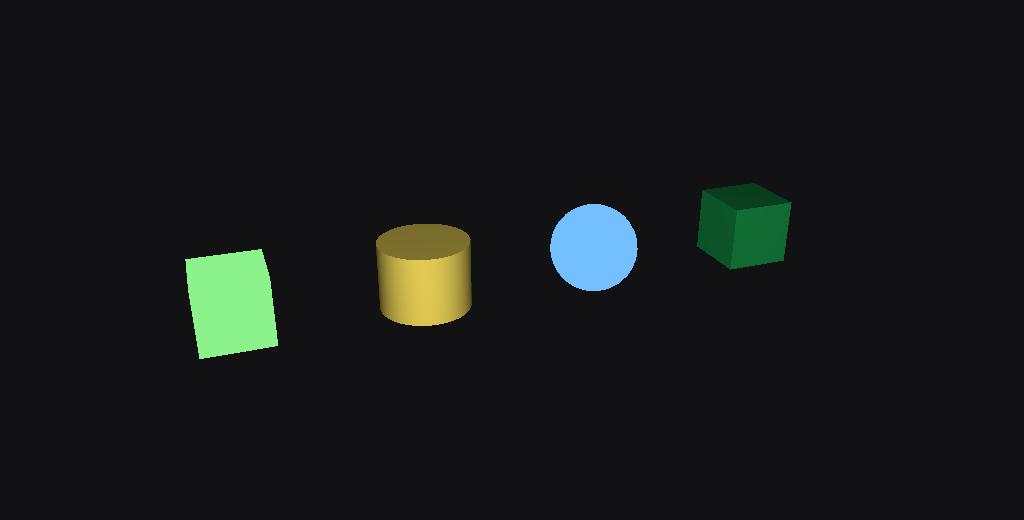
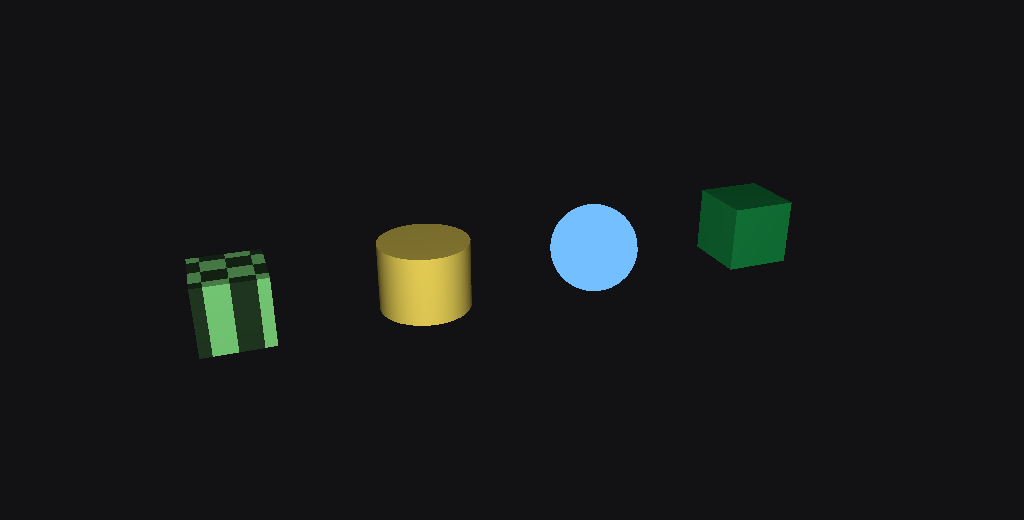
heapScene: per-group texture sets (texture-set keying)
WebGPU 1.0 has no bindless, so a sampled texture forces a distinct
bind-group layout — texture-set is a wedge in the group key.

  HeapTextureSet { texture, textureView?, sampler }
  BuildHeapSceneOptions.texturesByGroupKey?: Map<groupKey, HeapTextureSet>

A group with a texture set adds two entries to its bind-group
layout: a float texture_2d at @binding(4) and a filtering sampler
at @binding(5). The user's FS WGSL declares both. Groups WITHOUT a
texture set keep the 4-binding layout from before.

Demo gains a 'textured' group with a 64x64 RGBA8 checker texture
sampled via planar XY world-space projection (no UVs in the heap
yet — projection works because all our geometry has well-defined
world axes). Slot 3 of the 4-RO classic now uses 'textured' →
3 distinct groups. Stats:

  4 draws / 3 grp · 57 fps · globals: 240 B (= 80 B × 3 groups)

Scale check with the textured group active:
  1000 draws / 3 grp · 60 fps · encode 0.2 / 0.3 ms p50/p99
  10000 draws / 3 grp · 60 fps · encode 0.4 / 0.5 ms

Cost of a 3rd group is +80 B/frame globals + one extra setBindGroup
+ one extra setIndexBuffer per frame. Encode time is unchanged.

Per-RO textures (different texture per RO within a group) is the
follow-up; today the user must encode that as a per-draw groupKey
('textured-rock', 'textured-grass') so each unique texture set
becomes its own group. Bindless / sized-binding-arrays is the
escape hatch when WebGPU lands either feature.

Changed region(s): [[0.1562, 0.4615, 0.2812, 0.7077]]

diff --git a/packages/rendering/src/runtime/heapScene.ts b/packages/rendering/src/runtime/heapScene.ts
@@ -34,6 +34,13 @@
 //   };
 //
 // User WGSL must declare `@fragment fn fs(in: VsOut) -> @location(0) vec4<f32>`.
+//
+// Per-group texture sets. WebGPU 1.0 has no bindless, so texture-set
+// is a wedge in the group key: groups with different texture sets
+// can't share a bind group. Pass a `textures: { texture, sampler }`
+// per groupKey via `BuildHeapSceneOptions.texturesByGroupKey`. The
+// package adds the texture (binding 4) + sampler (binding 5) to that
+// group's bind-group layout; the user's FS WGSL declares them.
 
 import { Trafo3d, V3d, V4f, type M44d } from "@aardworx/wombat.base";
 import { AVal, addMarkingCallback } from "@aardworx/wombat.adaptive";
@@ -227,6 +234,7 @@ function buildGroup(
   attach: CanvasAttachment,
   key: string,
   fragmentWgsl: string,
+  textureSet: HeapTextureSet | undefined,
   draws: readonly { spec: HeapDrawSpec; sourceIndex: number }[],
   modelTrafos: aval<Trafo3d>[],
   colors: aval<V4f>[],
@@ -279,14 +287,21 @@ function buildGroup(
     code: SHADER_PRELUDE + fragmentWgsl,
     label: `heapScene/${key}/shader`,
   });
+  const bindLayoutEntries: GPUBindGroupLayoutEntry[] = [
+    { binding: 0, visibility: GPUShaderStage.VERTEX, buffer: { type: "uniform" } },
+    { binding: 1, visibility: GPUShaderStage.VERTEX, buffer: { type: "read-only-storage" } },
+    { binding: 2, visibility: GPUShaderStage.VERTEX, buffer: { type: "read-only-storage" } },
+    { binding: 3, visibility: GPUShaderStage.VERTEX, buffer: { type: "read-only-storage" } },
+  ];
+  if (textureSet !== undefined) {
+    bindLayoutEntries.push(
+      { binding: 4, visibility: GPUShaderStage.FRAGMENT, texture: { sampleType: "float" } },
+      { binding: 5, visibility: GPUShaderStage.FRAGMENT, sampler: { type: "filtering" } },
+    );
+  }
   const bindGroupLayout = device.createBindGroupLayout({
     label: `heapScene/${key}/bgl`,
-    entries: [
-      { binding: 0, visibility: GPUShaderStage.VERTEX, buffer: { type: "uniform" } },
-      { binding: 1, visibility: GPUShaderStage.VERTEX, buffer: { type: "read-only-storage" } },
-      { binding: 2, visibility: GPUShaderStage.VERTEX, buffer: { type: "read-only-storage" } },
-      { binding: 3, visibility: GPUShaderStage.VERTEX, buffer: { type: "read-only-storage" } },
-    ],
+    entries: bindLayoutEntries,
   });
   const pipelineLayout = device.createPipelineLayout({ bindGroupLayouts: [bindGroupLayout] });
   const pipeline = device.createRenderPipeline({
@@ -299,15 +314,22 @@ function buildGroup(
       ? { depthStencil: { format: depthFormat, depthWriteEnabled: true, depthCompare: "less" as GPUCompareFunction } }
       : {}),
   });
+  const bindEntries: GPUBindGroupEntry[] = [
+    { binding: 0, resource: { buffer: globals } },
+    { binding: 1, resource: { buffer: drawHeap } },
+    { binding: 2, resource: { buffer: packed.positionsBuf } },
+    { binding: 3, resource: { buffer: packed.normalsBuf } },
+  ];
+  if (textureSet !== undefined) {
+    bindEntries.push(
+      { binding: 4, resource: textureSet.textureView ?? textureSet.texture.createView() },
+      { binding: 5, resource: textureSet.sampler },
+    );
+  }
   const bindGroup = device.createBindGroup({
     label: `heapScene/${key}/bg`,
     layout: bindGroupLayout,
-    entries: [
-      { binding: 0, resource: { buffer: globals } },
-      { binding: 1, resource: { buffer: drawHeap } },
-      { binding: 2, resource: { buffer: packed.positionsBuf } },
-      { binding: 3, resource: { buffer: packed.normalsBuf } },
-    ],
+    entries: bindEntries,
   });
 
   return {
@@ -343,9 +365,26 @@ export interface HeapScene {
   dispose(): void;
 }
 
+/**
+ * Per-group texture set. Bindless isn't standard WebGPU, so a group
+ * with sampled textures gets a distinct bind-group layout and is
+ * keyed separately from groups with no textures or different sets.
+ */
+export interface HeapTextureSet {
+  readonly texture: GPUTexture;
+  readonly textureView?: GPUTextureView;
+  readonly sampler: GPUSampler;
+}
+
 export interface BuildHeapSceneOptions {
   /** WGSL fragment-stage source per group key — must declare `fs(in: VsOut) -> @location(0) vec4<f32>`. */
   readonly fragmentShaders: ReadonlyMap<string, string>;
+  /**
+   * Per-group texture set. When present, the group's bind-group
+   * layout adds a `texture_2d<f32>` at binding 4 and a sampler at
+   * binding 5. The user's FS WGSL must declare them.
+   */
+  readonly texturesByGroupKey?: ReadonlyMap<string, HeapTextureSet>;
 }
 
 /**
@@ -380,7 +419,8 @@ export function buildHeapScene(
     if (fs === undefined) {
       throw new Error(`buildHeapScene: no fragment shader supplied for groupKey '${key}'`);
     }
-    groups.push(buildGroup(device, attach, key, fs, members, modelTrafos, colors));
+    const textureSet = opts.texturesByGroupKey?.get(key);
+    groups.push(buildGroup(device, attach, key, fs, textureSet, members, modelTrafos, colors));
   }
 
   const stats: HeapSceneStats = {

diff --git a/examples/heap-demo/src/heap.ts b/examples/heap-demo/src/heap.ts
@@ -1,22 +1,24 @@
 // heap.ts — thin demo wrapper around the package's heapScene API.
 // All the architecture lives in
 // `@aardworx/wombat.rendering.experimental/runtime` now; the demo
-// just supplies its two fragment shaders ("lambert" / "flat") and
-// adapts its local GeometryData type to the package's HeapGeometry
-// shape.
+// supplies its three fragment shaders ("lambert" / "flat" /
+// "textured"), adapts the local GeometryData to HeapGeometry, and
+// builds a small synthetic checker texture for the "textured"
+// group.
 
 import {
   buildHeapScene,
   type HeapDrawSpec as PkgHeapDrawSpec,
   type HeapGeometry,
   type HeapScene,
+  type HeapTextureSet,
 } from "@aardworx/wombat.rendering.experimental/runtime";
 import type { CanvasAttachment } from "@aardworx/wombat.rendering.experimental/window";
 import type { aval } from "@aardworx/wombat.adaptive";
 import { Trafo3d, V4f } from "@aardworx/wombat.base";
 import type { GeometryData } from "./geometry.js";
 
-export type ShaderKind = "lambert" | "flat";
+export type ShaderKind = "lambert" | "flat" | "textured";
 
 const FS_LAMBERT = /* wgsl */`
 @fragment
@@ -37,6 +39,24 @@ fn fs(in: VsOut) -> @location(0) vec4<f32> {
 }
 `;
 
+// Texture sample uses planar projection on the world-space normal —
+// crude but enough to read pixels off the texture and prove the
+// per-group bind-layout extension works without UVs in the heap.
+const FS_TEXTURED = /* wgsl */`
+@group(0) @binding(4) var checker:    texture_2d<f32>;
+@group(0) @binding(5) var checkerSmp: sampler;
+
+@fragment
+fn fs(in: VsOut) -> @location(0) vec4<f32> {
+  let n = normalize(in.normal);
+  let uv = vec2<f32>(in.worldPos.x, in.worldPos.y) * 0.25 + vec2<f32>(0.5, 0.5);
+  let tex = textureSample(checker, checkerSmp, uv).rgb;
+  let l = normalize(in.lightLoc - in.worldPos);
+  let k = 0.3 + 0.7 * abs(dot(l, n));
+  return vec4<f32>(tex * in.color.xyz * k, in.color.w);
+}
+`;
+
 export interface HeapDrawSpec {
   readonly geo: GeometryData;
   readonly modelTrafo: aval<Trafo3d> | Trafo3d;
@@ -46,11 +66,47 @@ export interface HeapDrawSpec {
 
 export type HeapRenderer = HeapScene;
 
+/** Build a small RGBA8 checkerboard texture for the "textured" group. */
+function buildCheckerTexture(device: GPUDevice): HeapTextureSet {
+  const size = 64;
+  const bytes = new Uint8Array(size * size * 4);
+  for (let y = 0; y < size; y++) {
+    for (let x = 0; x < size; x++) {
+      const cell = ((x >> 3) ^ (y >> 3)) & 1;
+      const v = cell !== 0 ? 220 : 60;
+      const idx = (y * size + x) * 4;
+      bytes[idx + 0] = v;
+      bytes[idx + 1] = v;
+      bytes[idx + 2] = v;
+      bytes[idx + 3] = 255;
+    }
+  }
+  const texture = device.createTexture({
+    size: { width: size, height: size, depthOrArrayLayers: 1 },
+    format: "rgba8unorm",
+    usage: GPUTextureUsage.TEXTURE_BINDING | GPUTextureUsage.COPY_DST,
+    label: "heap-demo: checker",
+  });
+  device.queue.writeTexture(
+    { texture },
+    bytes,
+    { bytesPerRow: size * 4, rowsPerImage: size },
+    { width: size, height: size, depthOrArrayLayers: 1 },
+  );
+  const sampler = device.createSampler({
+    magFilter: "nearest", minFilter: "nearest",
+    addressModeU: "repeat", addressModeV: "repeat",
+    label: "heap-demo: checker sampler",
+  });
+  return { texture, sampler };
+}
+
 export function buildHeapRenderer(
   device: GPUDevice,
   attach: CanvasAttachment,
   draws: readonly HeapDrawSpec[],
 ): HeapRenderer {
+  const checker = buildCheckerTexture(device);
   const pkgDraws: PkgHeapDrawSpec[] = draws.map(d => ({
     geo: { positions: d.geo.positions, normals: d.geo.normals, indices: d.geo.indices } satisfies HeapGeometry,
     modelTrafo: d.modelTrafo,
@@ -59,8 +115,12 @@ export function buildHeapRenderer(
   }));
   return buildHeapScene(device, attach, pkgDraws, {
     fragmentShaders: new Map<string, string>([
-      ["lambert", FS_LAMBERT],
-      ["flat",    FS_FLAT],
+      ["lambert",  FS_LAMBERT],
+      ["flat",     FS_FLAT],
+      ["textured", FS_TEXTURED],
+    ]),
+    texturesByGroupKey: new Map<string, HeapTextureSet>([
+      ["textured", checker],
     ]),
   });
 }

diff --git a/examples/heap-demo/src/main.ts b/examples/heap-demo/src/main.ts
@@ -291,11 +291,16 @@ const canvas = document.getElementById("cv") as HTMLCanvasElement;
 
   function buildDraws(count: number): HeapDrawSpec[] {
     if (count <= 4) {
+      // 4-RO classic layout: slot 0 lambert (live colour), slot 1
+      // flat, slot 2 lambert (live trafo), slot 3 textured. Forces
+      // 3 distinct groups to demonstrate per-group bind layouts.
+      const kindFor = (i: number): "lambert" | "flat" | "textured" =>
+        i === 0 ? "lambert" : i === 1 ? "flat" : i === 2 ? "lambert" : "textured";
       return xPositions.slice(0, count).map((x, i) => ({
         geo: rawGeos[i]!,
         modelTrafo: i === 2 ? cylTrafo : trafoOf(i, x),
         color:      i === 0 ? boxColor : colors[i]!,
-        kind:       (i % 2 === 0 ? "lambert" : "flat") as const,
+        kind:       kindFor(i),
       }));
     }
     // N-RO grid. side ≈ sqrt(N), spacing ~ 2.4. Geometry rotates
@@ -316,11 +321,14 @@ const canvas = document.getElementById("cv") as HTMLCanvasElement;
           : geoIdx === 1
             ? Trafo3d.scaling(0.5, 0.5, 0.5).mul(Trafo3d.translation(new V3d(x, y, 0)))
             : Trafo3d.scaling(0.5, 0.5, 0.8).mul(Trafo3d.translation(new V3d(x, y, -0.4)));
+      // Cycle 3 group kinds so the grid mixes lambert / flat /
+      // textured in roughly equal proportions.
+      const kind = (k % 3 === 0 ? "lambert" : k % 3 === 1 ? "flat" : "textured") as const;
       out.push({
         geo,
         modelTrafo: k === 2 && count >= 3 ? cylTrafo : offsetTrafo,
         color:      k === 0 ? boxColor : colors[k % 4]!,
-        kind:       (k % 2 === 0 ? "lambert" : "flat") as const,
+        kind,
       });
     }
     return out;

diff --git a/packages/rendering/src/runtime/index.ts b/packages/rendering/src/runtime/index.ts
@@ -29,5 +29,6 @@ export {
   type HeapSceneStats,
   type HeapDrawSpec,
   type HeapGeometry,
+  type HeapTextureSet,
   type BuildHeapSceneOptions,
 } from "./heapScene.js";
